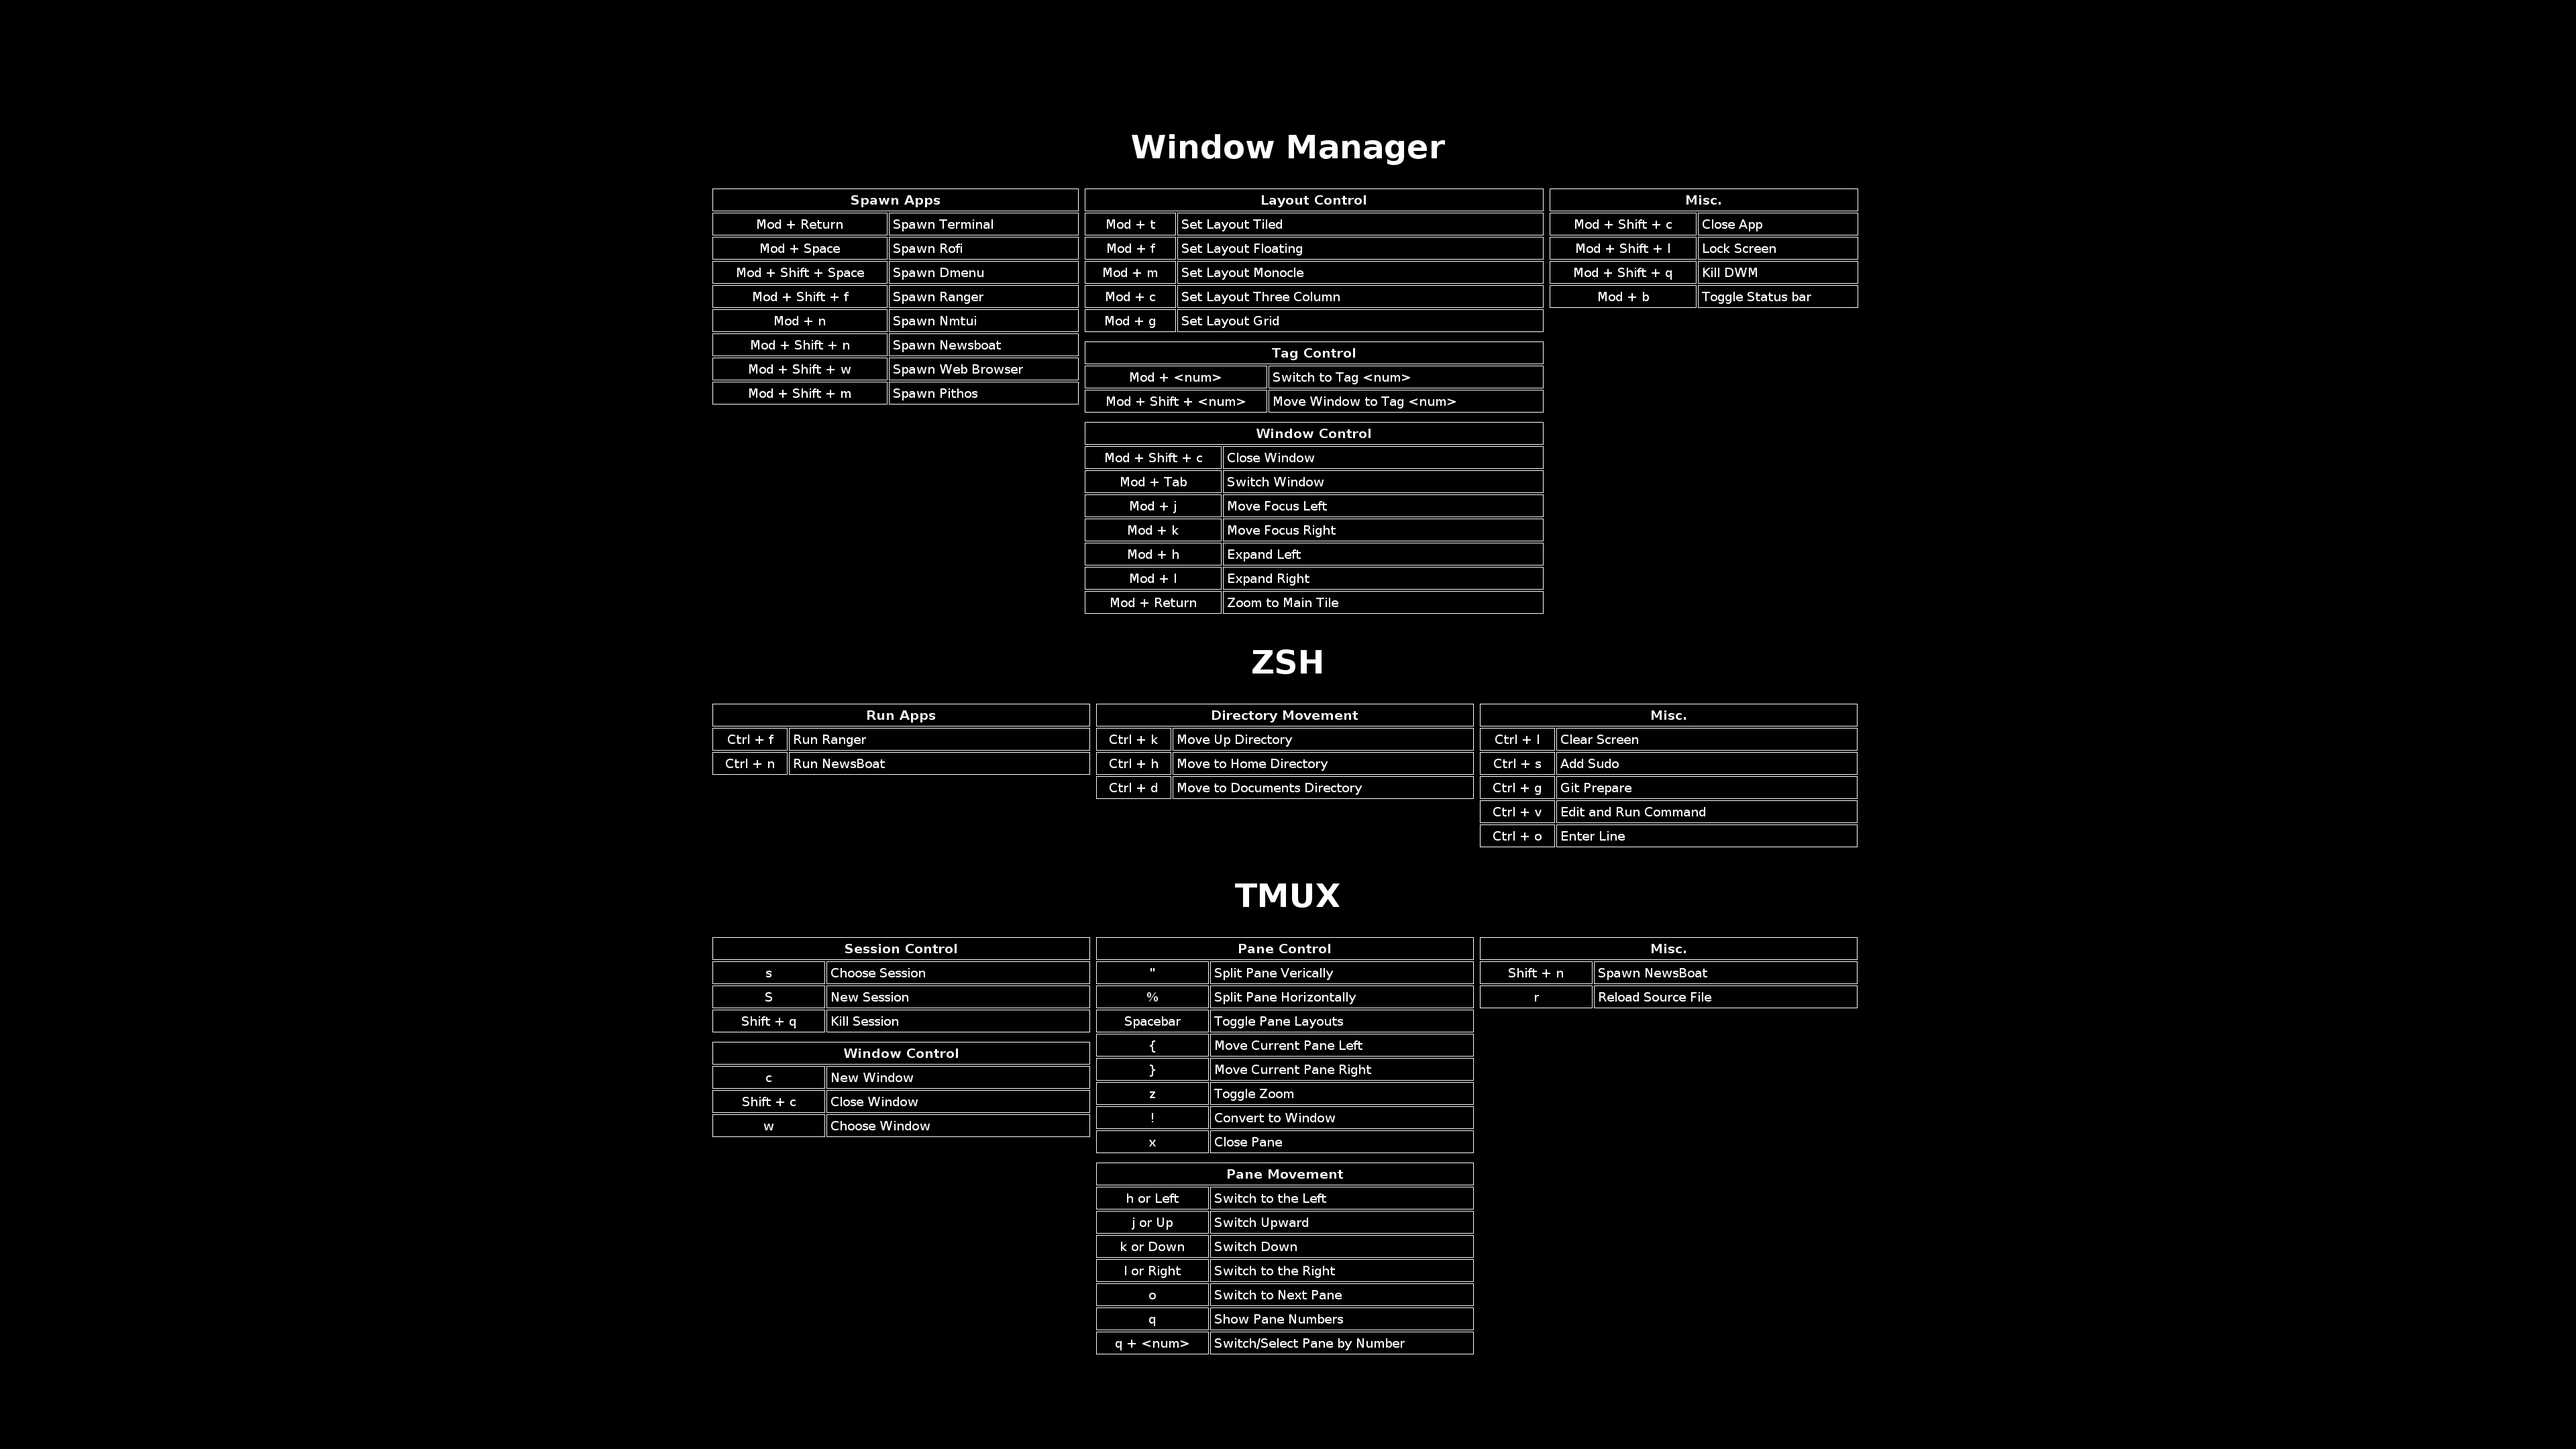
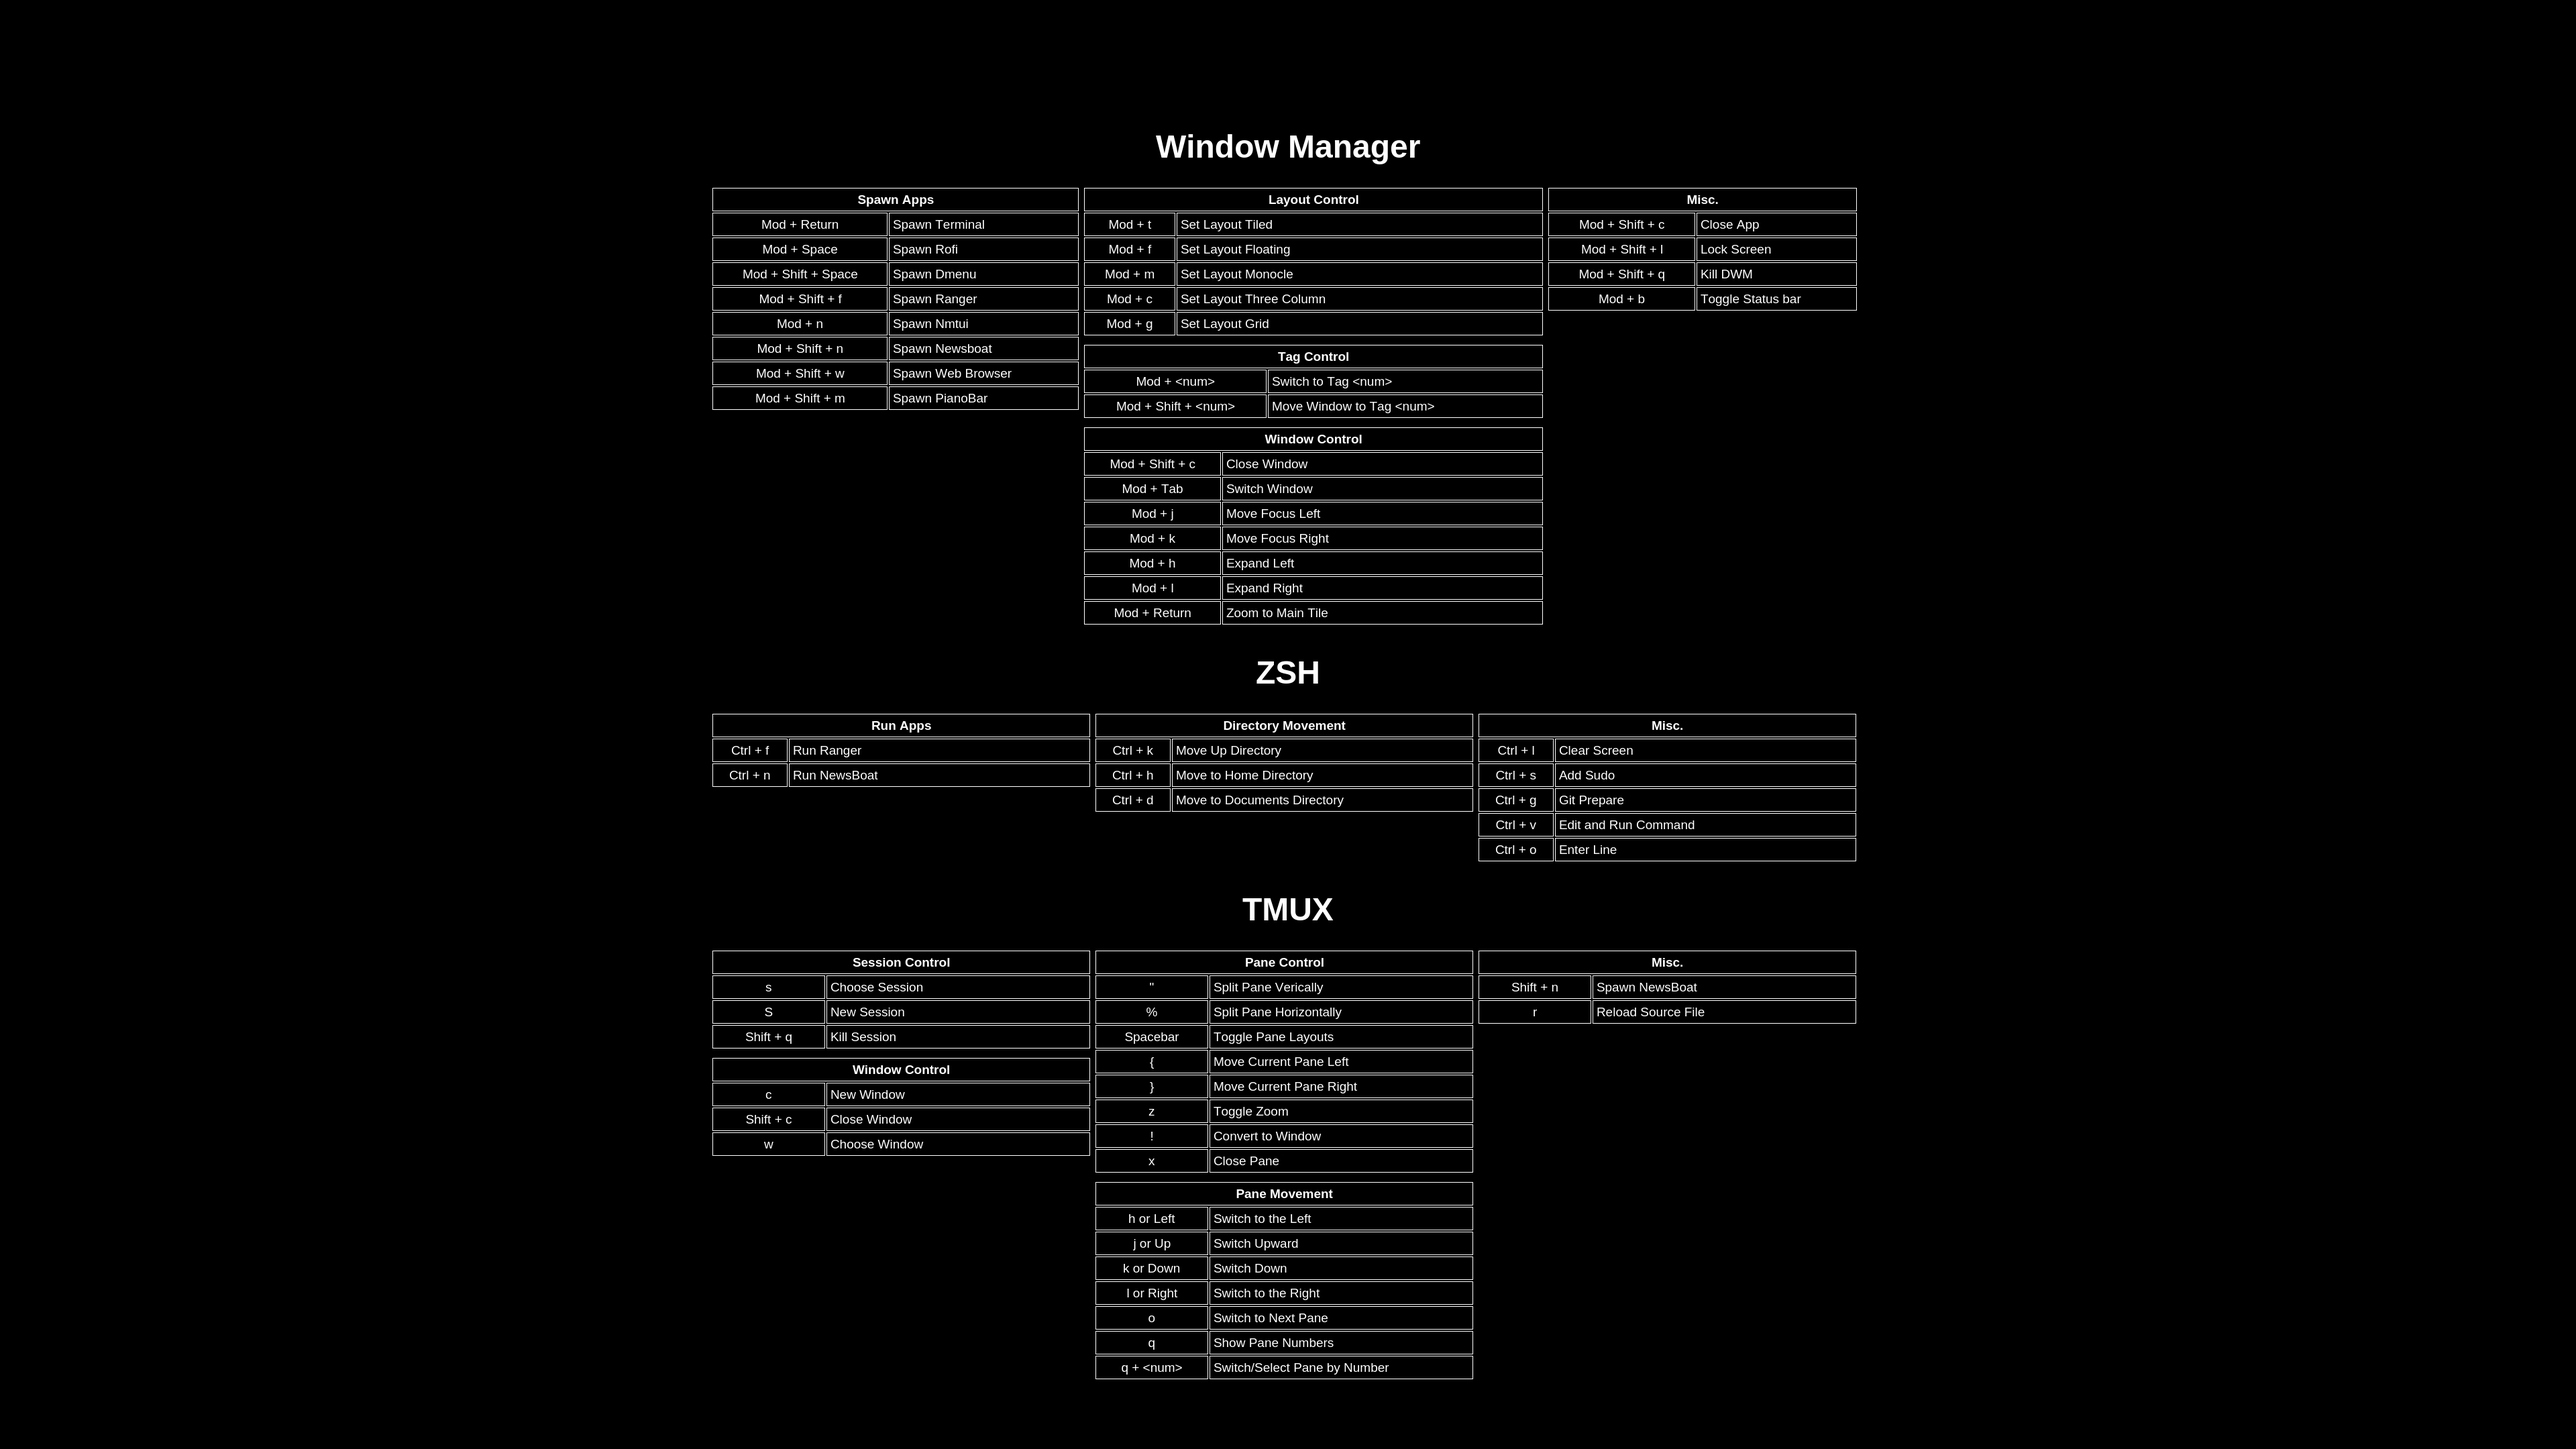
Changed Pithos Keybind to PianoBar and updated wallpaper

Changed region(s): [[0.2812, 0.0931, 0.7188, 0.5894], [0.2812, 0.5894, 0.7188, 0.9616]]

diff --git a/Keybind_Wallpaper.html b/Keybind_Wallpaper.html
@@ -119,7 +119,7 @@
             ["Mod + n", "Spawn Nmtui"],
             ["Mod + Shift + n", "Spawn Newsboat"],
             ["Mod + Shift + w", "Spawn Web Browser"],
-            ["Mod + Shift + m", "Spawn Pithos"],
+            ["Mod + Shift + m", "Spawn PianoBar"],
           ];
           gen_table("Spawn Apps", rows, "48%");
         </script>

diff --git a/dwm/config.h b/dwm/config.h
@@ -81,6 +81,7 @@ static const char *termcmd[]  = { "st", NULL };
 /*For Arch change to above for ubuntu*/
 static const char *webcmd[]  = { "google-chrome-stable", NULL };
 static const char *pithoscmd[]  = { "pithos", NULL };
+static const char *pianobarcmd[] = { "st", "-e", "pianobar", NULL };
 static const char *lockcmd[]  = { "slock", NULL };
 #include <X11/XF86keysym.h>
 static const char *volupcmd[]  = { "pactl", "set-sink-volume", "@DEFAULT_SINK@", "+1%", NULL };
@@ -97,7 +98,7 @@ static Key keys[] = {
 	{ MODKEY|ShiftMask,             XK_n,      spawn,          {.v = newsboatcmd } },
 	{ MODKEY,                       XK_n,      spawn,          {.v = nmtuicmd } },
 	{ MODKEY|ShiftMask,             XK_w,      spawn,          {.v = webcmd } },
-	{ MODKEY|ShiftMask,             XK_m,      spawn,          {.v = pithoscmd } },
+	{ MODKEY|ShiftMask,             XK_m,      spawn,          {.v = pianobarcmd } },
 	{ MODKEY|ShiftMask,             XK_l,      spawn,          {.v = lockcmd } },
 	{ 0,         XF86XK_AudioMute,             spawn,          {.v = volmutecmd } },
 	{ 0,         XF86XK_AudioRaiseVolume,      spawn,          {.v = volupcmd } },
